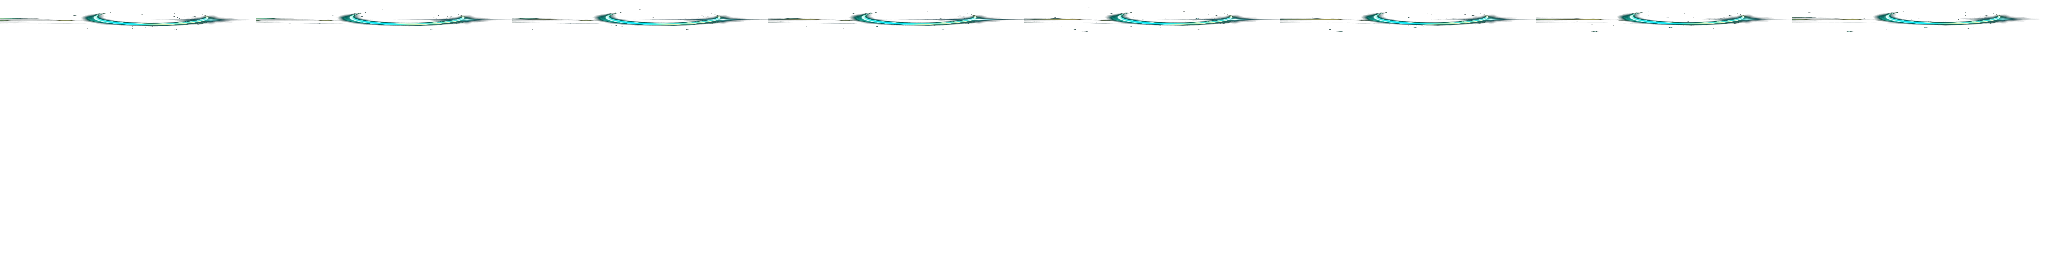
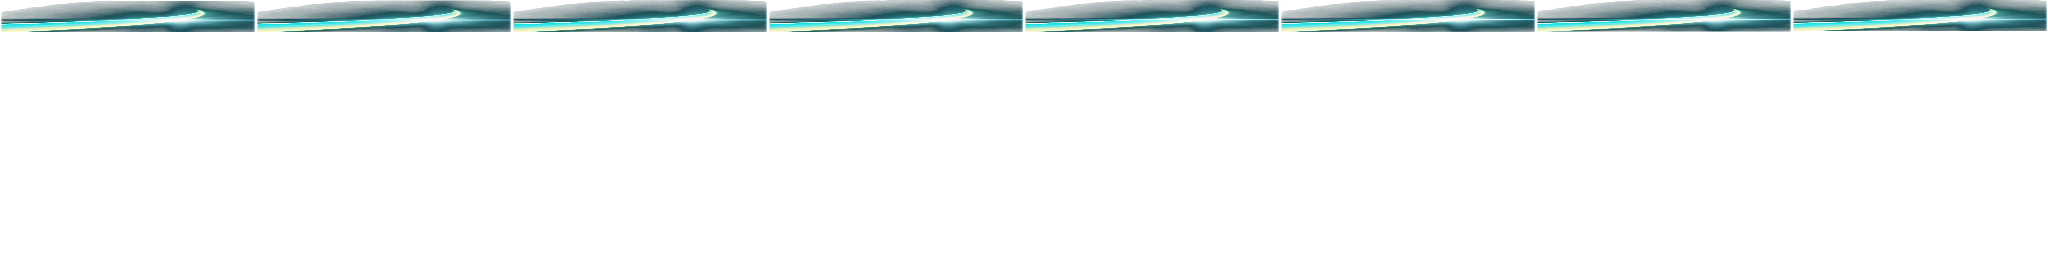
V0.3.1: fx_isolate 主形状提取——剑气斩剪成干净月牙
- tools/fx_isolate.js: 亮度蒙版→开运算去细线光斑→连通域→膨胀回填→软化→全帧包围盒居中
- 剑气斩雪碧图重制: 每帧只保留主月牙形状, 无横线光斑/斑点杂讯
- 验收: 游戏内月牙剑气干净可读, 零报错

Changed region(s): [[0.0, 0.0, 1.0, 0.125]]

diff --git a/tools/fx_isolate.js b/tools/fx_isolate.js
@@ -1,0 +1,124 @@
+// 特效帧主形状提取：从抽帧JSON中剥离细线光斑，只保留主特效形状，统一居中拼横排雪碧图
+// 用法: node tools/fx_isolate.js <frames.json> <输出.png> [帧数上限] [亮度阈值]
+const fs = require('fs');
+const path = require('path');
+const { decode, encode } = require(path.join(__dirname, 'png_key.js'));
+
+const [,, src, dst, maxFramesArg, lumThArg] = process.argv;
+const maxFrames = +(maxFramesArg || 8);
+const LUM = +(lumThArg || 40);
+const S = 256;
+const frames = JSON.parse(fs.readFileSync(src, 'utf8')).slice(0, maxFrames);
+
+const clamp01 = v => Math.max(0, Math.min(1, v));
+const erode = (m, w, h) => {
+  const out = new Uint8Array(w * h);
+  for (let y = 1; y < h - 1; y++) for (let x = 1; x < w - 1; x++) {
+    const i = y * w + x;
+    out[i] = (m[i] && m[i - 1] && m[i + 1] && m[i - w] && m[i + w]) ? 1 : 0;
+  }
+  return out;
+};
+const dilate = (m, w, h) => {
+  const out = new Uint8Array(w * h);
+  for (let y = 1; y < h - 1; y++) for (let x = 1; x < w - 1; x++) {
+    const i = y * w + x;
+    out[i] = (m[i] || m[i - 1] || m[i + 1] || m[i - w] || m[i + w]) ? 1 : 0;
+  }
+  return out;
+};
+function components(m, w, h) {
+  const seen = new Uint8Array(w * h);
+  const comps = [];
+  const stack = [];
+  for (let start = 0; start < w * h; start++) {
+    if (!m[start] || seen[start]) continue;
+    const px = [];
+    stack.push(start); seen[start] = 1;
+    while (stack.length) {
+      const i = stack.pop(); px.push(i);
+      const x = i % w, y = (i / w) | 0;
+      for (const [ox, oy] of [[1, 0], [-1, 0], [0, 1], [0, -1]]) {
+        const x2 = x + ox, y2 = y + oy;
+        if (x2 < 0 || y2 < 0 || x2 >= w || y2 >= h) continue;
+        const j = y2 * w + x2;
+        if (m[j] && !seen[j]) { seen[j] = 1; stack.push(j); }
+      }
+    }
+    comps.push({ size: px.length, px });
+  }
+  return comps;
+}
+function soften(m, w, h) {
+  let cur = Float32Array.from(m);
+  for (let pass = 0; pass < 2; pass++) {
+    const t = new Float32Array(w * h);
+    for (let y = 1; y < h - 1; y++) for (let x = 1; x < w - 1; x++) {
+      const i = y * w + x;
+      t[i] = (cur[i] + cur[i - 1] + cur[i + 1] + cur[i - w] + cur[i + w]
+            + cur[i - w - 1] + cur[i - w + 1] + cur[i + w - 1] + cur[i + w + 1]) / 9;
+    }
+    cur = t;
+  }
+  return cur;
+}
+
+// ===== 第一步：逐帧隔离主形状（开运算去细线光斑 → 连通域 → 膨胀回填 → 亮度alpha）=====
+const isolated = [];
+for (const f of frames) {
+  const img = decode(Buffer.from(f.d.split(',')[1], 'base64'));
+  const mask = new Uint8Array(S * S);
+  for (let p = 0; p < S * S; p++) {
+    const L = Math.max(img.rgba[p * 4], img.rgba[p * 4 + 1], img.rgba[p * 4 + 2]);
+    mask[p] = L > LUM ? 1 : 0;
+  }
+  let m = erode(mask, S, S); m = erode(m, S, S); m = erode(m, S, S);
+  const comps = components(m, S, S).filter(c => c.size > 30);
+  let keep = new Uint8Array(S * S);
+  for (const c of comps) for (const idx of c.px) keep[idx] = 1;
+  for (let it = 0; it < 4; it++) keep = dilate(keep, S, S);
+  const soft = soften(keep, S, S);
+  const fc = Buffer.alloc(S * S * 4);
+  for (let p = 0; p < S * S; p++) {
+    const di = p * 4;
+    const L = Math.max(img.rgba[di], img.rgba[di + 1], img.rgba[di + 2]);
+    const keyed = Math.max(0, Math.min(255, Math.round((L - 28) * (255 / 62))));
+    fc[di] = img.rgba[di]; fc[di + 1] = img.rgba[di + 1]; fc[di + 2] = img.rgba[di + 2];
+    fc[di + 3] = Math.round(keyed * clamp01(soft[p]));
+  }
+  isolated.push(fc);
+}
+
+// ===== 第二步：全帧内容包围盒（union），统一居中裁到正方形单帧 =====
+let ux0 = S, uy0 = S, ux1 = 0, uy1 = 0, any = false;
+for (const fc of isolated) {
+  for (let y = 0; y < S; y++) for (let x = 0; x < S; x++) {
+    if (fc[(y * S + x) * 4 + 3] > 20) {
+      any = true;
+      if (x < ux0) ux0 = x; if (x > ux1) ux1 = x;
+      if (y < uy0) uy0 = y; if (y > uy1) uy1 = y;
+    }
+  }
+}
+if (!any) { console.log('警告：未检测到内容'); process.exit(1); }
+const PAD = 16;
+const bw = ux1 - ux0 + 1 + PAD * 2, bh = uy1 - uy0 + 1 + PAD * 2;
+const FS = Math.min(S, Math.max(bw, bh)); // 单帧边长（正方形）
+const fcx = (ux0 + ux1 + 1) / 2, fcy = (uy0 + uy1 + 1) / 2;
+console.log(`内容包围盒 (${ux0},${uy0})-(${ux1},${uy1})，单帧边长 ${FS}`);
+
+// ===== 第三步：拼横排雪碧图（居中）=====
+const strip = Buffer.alloc(S * frames.length * S * 4);
+frames.forEach((f, i) => {
+  const fc = isolated[i];
+  const dx = Math.round(i * S + S / 2 - fcx), dy = Math.round(S / 2 - fcy);
+  for (let y = 0; y < S; y++) for (let x = 0; x < S; x++) {
+    const sx = x - dx, sy = y - dy; // 单帧内坐标
+    if (sx < 0 || sy < 0 || sx >= S || sy >= S) continue;
+    const si = (sy * S + sx) * 4, di = (y * S + i * S + x) * 4;
+    if (di + 3 >= strip.length) continue;
+    strip[di] = fc[si]; strip[di + 1] = fc[si + 1]; strip[di + 2] = fc[si + 2]; strip[di + 3] = fc[si + 3];
+  }
+});
+fs.writeFileSync(dst, encode(S * frames.length, S, strip));
+console.log(`隔离完成 → ${dst}（${frames.length} 帧，单帧 ${S}）`);
